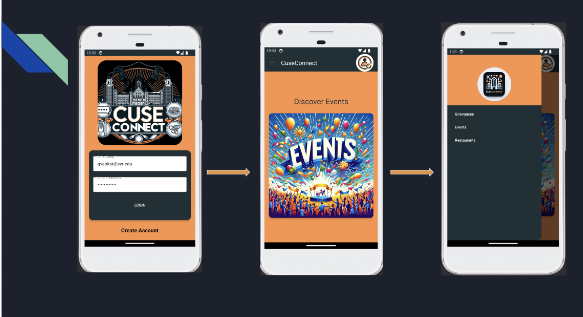
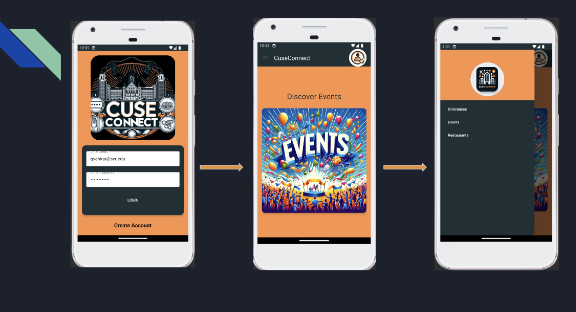
Updated Readme

Changed region(s): [[0.0, 0.0, 0.9688, 1.0], [0.4688, 0.8654, 0.625, 0.8942]]

diff --git a/README.md b/README.md
@@ -34,9 +34,9 @@ Using the Yelp API, this application allows students to explore Syracuse's culin
 <p>https://github.com/MohitKambli/CuseConnect/tree/main/ReportAndPresentation/CuseConnect_FinalPresentation.pdf</p>
 <h2>App Screenshots</h2>
 <div style= "float: left;width: 20%;padding: 100px;">
-  <img src="https://github.com/MohitKambli/CuseConnect/blob/main/Screenshots/S1.png" width=700 height=450>
-  <img src="https://github.com/MohitKambli/CuseConnect/blob/main/Screenshots/S2.png" width=700 height=450>
-  <img src="https://github.com/MohitKambli/CuseConnect/blob/main/Screenshots/S3.png" width=700 height=450>
-  <img src="https://github.com/MohitKambli/CuseConnect/blob/main/Screenshots/S4.png" width=700 height=450>
-  <img src="https://github.com/MohitKambli/CuseConnect/blob/main/Screenshots/S5.png" width=700 height=450>
+  <img src="https://github.com/MohitKambli/CuseConnect/blob/main/Screenshots/S1.png" width=700 height=350>
+  <img src="https://github.com/MohitKambli/CuseConnect/blob/main/Screenshots/S2.png" width=700 height=350>
+  <img src="https://github.com/MohitKambli/CuseConnect/blob/main/Screenshots/S3.png" width=700 height=350>
+  <img src="https://github.com/MohitKambli/CuseConnect/blob/main/Screenshots/S4.png" width=700 height=350>
+  <img src="https://github.com/MohitKambli/CuseConnect/blob/main/Screenshots/S5.png" width=700 height=350>
 </div>
